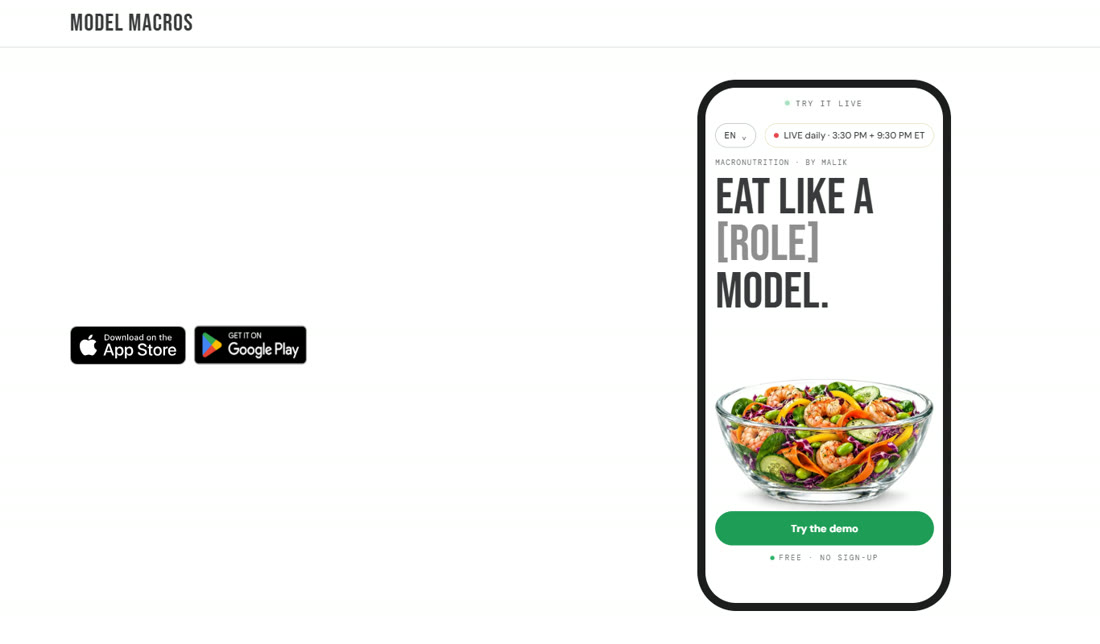
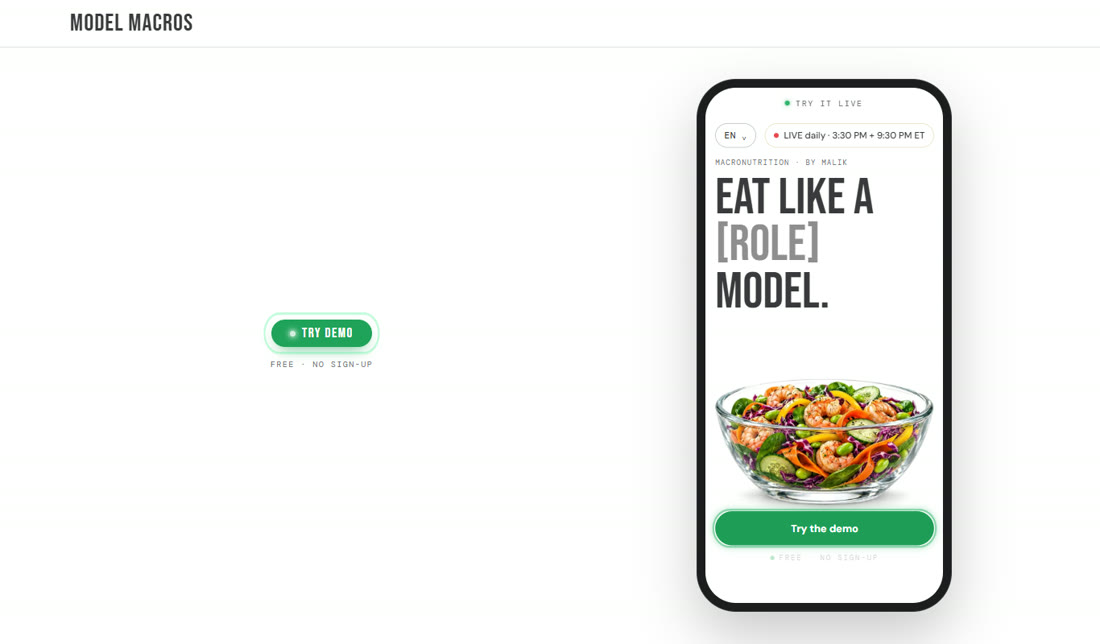
Model Macros panel 02: wording matches the site today (store badges at launch), fresh screenshot

diff --git a/index.html b/index.html
@@ -1138,8 +1138,8 @@ form.cf{ box-shadow:0 1px 0 rgba(255,255,255,.9) inset, 0 36px 70px -46px rgba(1
             <article class="mmx-card">
               <p class="mmx-n">02 &middot; The website</p>
               <h3>modelmacros.com</h3>
-              <a class="mmx-site" href="https://www.modelmacros.com" target="_blank" rel="noopener"><img loading="lazy" src="assets/mm-v2/mm-site.jpg" alt="The modelmacros.com home page with the live demo phone" width="1100" height="642"></a>
-              <p>A live demo visitors can tap, App Store and Google Play badges, and Stripe checkout for memberships.</p>
+              <a class="mmx-site" href="https://www.modelmacros.com" target="_blank" rel="noopener"><img loading="lazy" src="assets/mm-v2/mm-site.jpg?v=2" alt="The modelmacros.com home page with the live demo phone" width="1100" height="642"></a>
+              <p>A live demo visitors can try in one tap, and a founding-class checkout through Stripe. Store badges switch on at launch.</p>
             </article>
             <article class="mmx-card">
               <p class="mmx-n">03 &middot; The launch</p>
